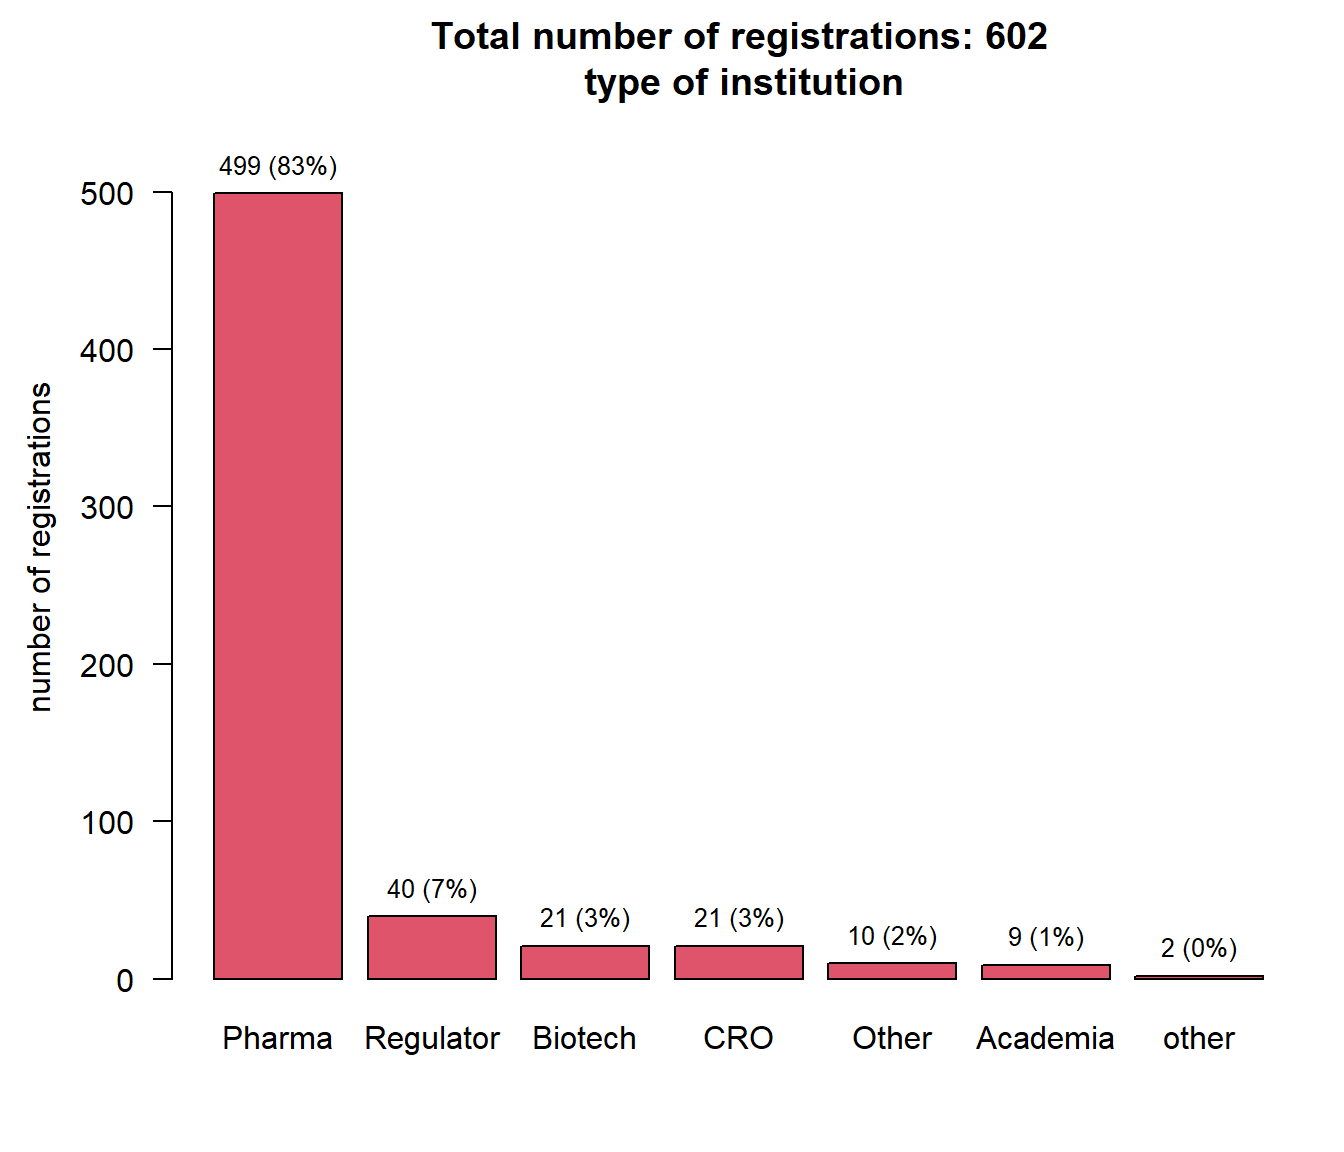
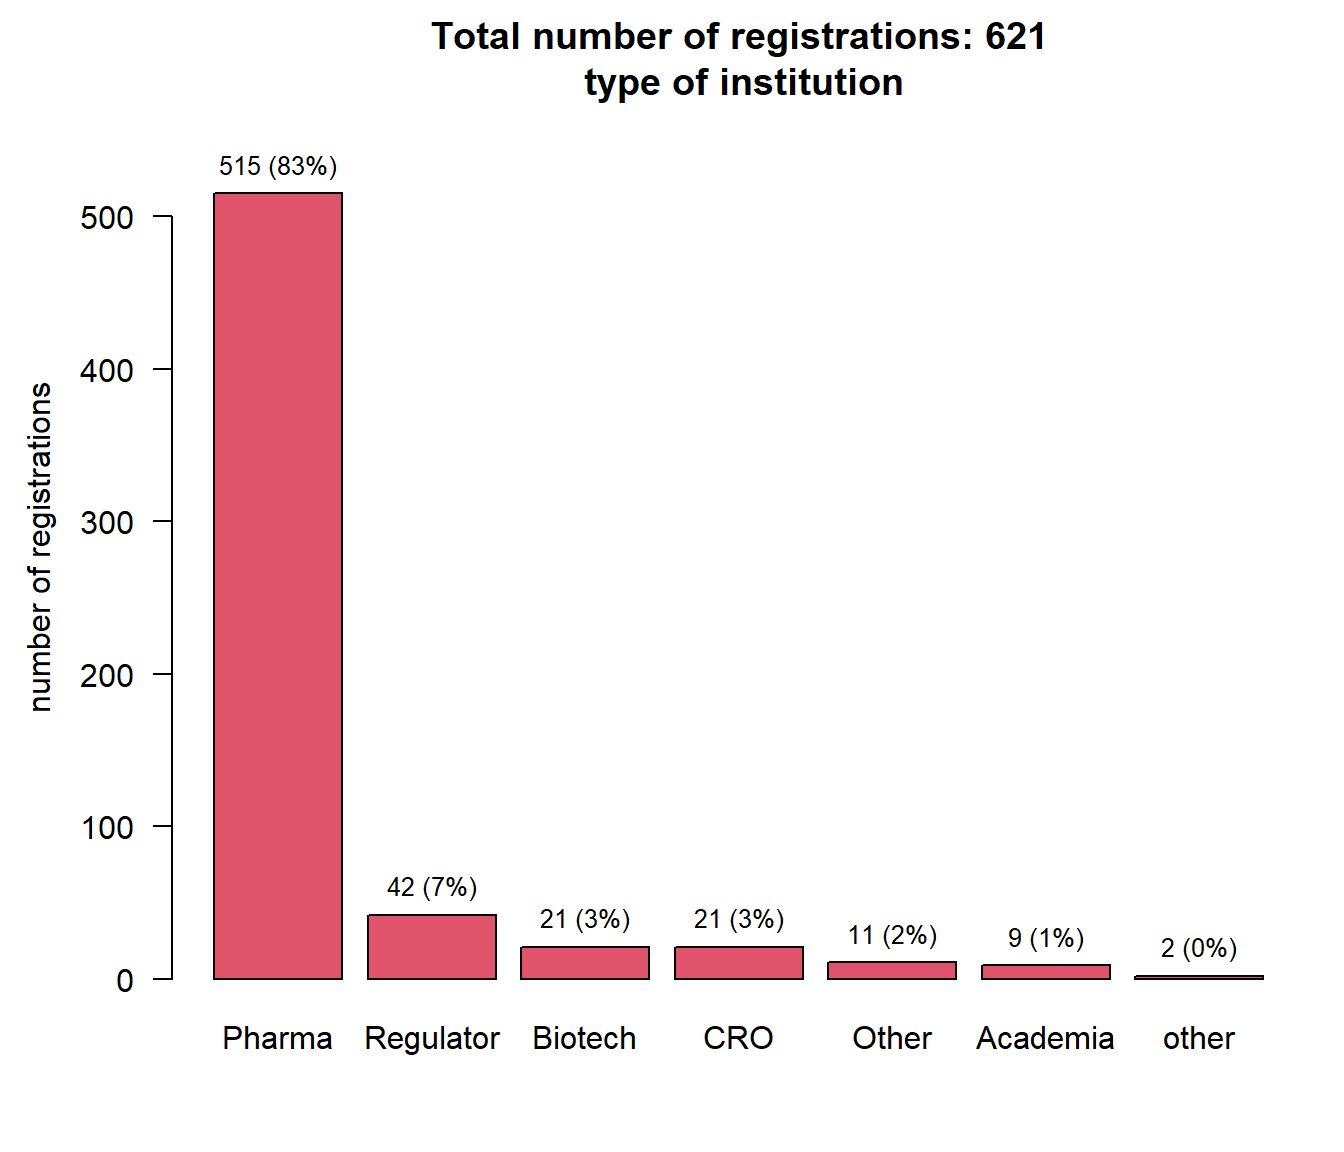
update

diff --git a/docs/registration_faq.html b/docs/registration_faq.html
@@ -6,7 +6,7 @@
 
 <meta name="viewport" content="width=device-width, initial-scale=1.0, user-scalable=yes">
 
-<meta name="dcterms.date" content="2024-08-21">
+<meta name="dcterms.date" content="2024-08-27">
 
 <title>EFSPI regulatory statistics workshop - Registration for EFSPI regulatory statistics workshop: Frequently asked questions</title>
 <style>
@@ -179,8 +179,8 @@ ul.task-list li input[type="checkbox"] {
   <li><a href="#which-companies-have-block-bookings-for-face-to-face-participation" id="toc-which-companies-have-block-bookings-for-face-to-face-participation" class="nav-link" data-scroll-target="#which-companies-have-block-bookings-for-face-to-face-participation">Which companies have block bookings for face-to-face participation?</a></li>
   <li><a href="#which-companies-have-block-bookings-for-virtual-participation" id="toc-which-companies-have-block-bookings-for-virtual-participation" class="nav-link" data-scroll-target="#which-companies-have-block-bookings-for-virtual-participation">Which companies have block bookings for virtual participation?</a></li>
   <li><a href="#my-company-roche-novartis-and-boehringer-ingelheim-has-a-block-booking-for-face-to-face-and-virtual-participation.-how-do-i-register" id="toc-my-company-roche-novartis-and-boehringer-ingelheim-has-a-block-booking-for-face-to-face-and-virtual-participation.-how-do-i-register" class="nav-link" data-scroll-target="#my-company-roche-novartis-and-boehringer-ingelheim-has-a-block-booking-for-face-to-face-and-virtual-participation.-how-do-i-register">My company (Roche, Novartis, and Boehringer Ingelheim) has a block booking for face-to-face AND virtual participation. How do I register?</a></li>
-  <li><a href="#my-company-novo-nordisk-bayer-has-a-block-booking-for-virtual-participation-only.-how-do-i-register" id="toc-my-company-novo-nordisk-bayer-has-a-block-booking-for-virtual-participation-only.-how-do-i-register" class="nav-link" data-scroll-target="#my-company-novo-nordisk-bayer-has-a-block-booking-for-virtual-participation-only.-how-do-i-register">My company (Novo Nordisk, Bayer) has a block booking for virtual participation only. How do I register?</a></li>
-  <li><a href="#my-company-novo-nordisk-bayer-has-a-block-booking-for-virtual-attendance-only.-i-still-want-to-attend-face-to-face.-how-much-do-i-need-to-pay" id="toc-my-company-novo-nordisk-bayer-has-a-block-booking-for-virtual-attendance-only.-i-still-want-to-attend-face-to-face.-how-much-do-i-need-to-pay" class="nav-link" data-scroll-target="#my-company-novo-nordisk-bayer-has-a-block-booking-for-virtual-attendance-only.-i-still-want-to-attend-face-to-face.-how-much-do-i-need-to-pay">My company (Novo Nordisk, Bayer) has a block booking for virtual attendance only. I still want to attend face-to-face. How much do I need to pay?</a></li>
+  <li><a href="#my-company-novo-nordisk-bayer-bms-has-a-block-booking-for-virtual-participation-only.-how-do-i-register" id="toc-my-company-novo-nordisk-bayer-bms-has-a-block-booking-for-virtual-participation-only.-how-do-i-register" class="nav-link" data-scroll-target="#my-company-novo-nordisk-bayer-bms-has-a-block-booking-for-virtual-participation-only.-how-do-i-register">My company (Novo Nordisk, Bayer, BMS) has a block booking for virtual participation only. How do I register?</a></li>
+  <li><a href="#my-company-novo-nordisk-bayer-bms-has-a-block-booking-for-virtual-attendance-only.-i-still-want-to-attend-face-to-face.-how-much-do-i-need-to-pay" id="toc-my-company-novo-nordisk-bayer-bms-has-a-block-booking-for-virtual-attendance-only.-i-still-want-to-attend-face-to-face.-how-much-do-i-need-to-pay" class="nav-link" data-scroll-target="#my-company-novo-nordisk-bayer-bms-has-a-block-booking-for-virtual-attendance-only.-i-still-want-to-attend-face-to-face.-how-much-do-i-need-to-pay">My company (Novo Nordisk, Bayer, BMS) has a block booking for virtual attendance only. I still want to attend face-to-face. How much do I need to pay?</a></li>
   <li><a href="#i-will-not-attend-the-full-workshop-andor-not-all-lunches.-do-i-get-a-deducation-for-the-face-to-face-registration-fee" id="toc-i-will-not-attend-the-full-workshop-andor-not-all-lunches.-do-i-get-a-deducation-for-the-face-to-face-registration-fee" class="nav-link" data-scroll-target="#i-will-not-attend-the-full-workshop-andor-not-all-lunches.-do-i-get-a-deducation-for-the-face-to-face-registration-fee">I will not attend the full workshop and/or not all lunches. Do I get a deducation for the face-to-face registration fee?</a></li>
   <li><a href="#i-have-registered-for-face-to-face-attendance-but-have-changed-my-mind-and-will-attend-only-virtually.-will-my-registration-fee-be-reimbursed" id="toc-i-have-registered-for-face-to-face-attendance-but-have-changed-my-mind-and-will-attend-only-virtually.-will-my-registration-fee-be-reimbursed" class="nav-link" data-scroll-target="#i-have-registered-for-face-to-face-attendance-but-have-changed-my-mind-and-will-attend-only-virtually.-will-my-registration-fee-be-reimbursed">I have registered for face-to-face attendance but have changed my mind and will attend only virtually. Will my registration fee be reimbursed?</a></li>
   <li><a href="#for-whom-is-the-registration-fee-waived" id="toc-for-whom-is-the-registration-fee-waived" class="nav-link" data-scroll-target="#for-whom-is-the-registration-fee-waived">For whom is the registration fee waived?</a></li>
@@ -207,7 +207,7 @@ ul.task-list li input[type="checkbox"] {
     <div>
     <div class="quarto-title-meta-heading">Published</div>
     <div class="quarto-title-meta-contents">
-      <p class="date">August 21, 2024</p>
+      <p class="date">August 27, 2024</p>
     </div>
   </div>
   
@@ -280,19 +280,19 @@ ul.task-list li input[type="checkbox"] {
 </section>
 <section id="which-companies-have-block-bookings-for-virtual-participation" class="level1">
 <h1>Which companies have block bookings for virtual participation?</h1>
-<p>For 2024, Novo Nordisk and Bayer have a a block booking for virtual participation, i.e.&nbsp;all colleagues working at Novo Nordisk or Bayer do not need to pay a registration fee for virtual participation. Face-to-face registration fee remains the same.</p>
+<p>For 2024, Novo Nordisk, Bayer, and BMS have a a block booking for virtual participation, i.e.&nbsp;all colleagues working at Novo Nordisk, Bayer, or BMS do not need to pay a registration fee for virtual participation. Face-to-face registration fee remains the same.</p>
 </section>
 <section id="my-company-roche-novartis-and-boehringer-ingelheim-has-a-block-booking-for-face-to-face-and-virtual-participation.-how-do-i-register" class="level1">
 <h1>My company (Roche, Novartis, and Boehringer Ingelheim) has a block booking for face-to-face AND virtual participation. How do I register?</h1>
 <p>These companies have a block booking for face-to-face and virtual attendance. You simply register via <a href="https://forms.gle/JWc1ZyUKxq5Lhhwf6">this form</a> and indicate face-to-face or virtual attendance. You do not need to pay a registration fee, this is covered by your company via the block booking.</p>
 <p>To get access to lunches and the wine tasting event, please tick the meals/event you plan to attend. We ask you to be as accurate as possible in indicating your presence - this is for organizational purposes.</p>
 </section>
-<section id="my-company-novo-nordisk-bayer-has-a-block-booking-for-virtual-participation-only.-how-do-i-register" class="level1">
-<h1>My company (Novo Nordisk, Bayer) has a block booking for virtual participation only. How do I register?</h1>
+<section id="my-company-novo-nordisk-bayer-bms-has-a-block-booking-for-virtual-participation-only.-how-do-i-register" class="level1">
+<h1>My company (Novo Nordisk, Bayer, BMS) has a block booking for virtual participation only. How do I register?</h1>
 <p>You simply register via <a href="https://forms.gle/JWc1ZyUKxq5Lhhwf6">this form</a> and indicate virtual attendance. You do not need to pay a registration fee, this is covered by your company via a block booking.</p>
 </section>
-<section id="my-company-novo-nordisk-bayer-has-a-block-booking-for-virtual-attendance-only.-i-still-want-to-attend-face-to-face.-how-much-do-i-need-to-pay" class="level1">
-<h1>My company (Novo Nordisk, Bayer) has a block booking for virtual attendance only. I still want to attend face-to-face. How much do I need to pay?</h1>
+<section id="my-company-novo-nordisk-bayer-bms-has-a-block-booking-for-virtual-attendance-only.-i-still-want-to-attend-face-to-face.-how-much-do-i-need-to-pay" class="level1">
+<h1>My company (Novo Nordisk, Bayer, BMS) has a block booking for virtual attendance only. I still want to attend face-to-face. How much do I need to pay?</h1>
 <p>The full registration fee, 280 Euro.</p>
 </section>
 <section id="i-will-not-attend-the-full-workshop-andor-not-all-lunches.-do-i-get-a-deducation-for-the-face-to-face-registration-fee" class="level1">

diff --git a/docs/data/2024/analysis2024.html b/docs/data/2024/analysis2024.html
@@ -7,7 +7,7 @@
 <meta name="viewport" content="width=device-width, initial-scale=1.0, user-scalable=yes">
 
 <meta name="author" content="Kaspar Rufibach">
-<meta name="dcterms.date" content="2024-08-23">
+<meta name="dcterms.date" content="2024-08-27">
 
 <title>EFSPI regulatory statistics workshop - EFSPI regulatory statistics workshop 2024: analysis of registrations</title>
 <style>
@@ -205,7 +205,7 @@ ul.task-list li input[type="checkbox"] {
     <div>
     <div class="quarto-title-meta-heading">Published</div>
     <div class="quarto-title-meta-contents">
-      <p class="date">August 23, 2024</p>
+      <p class="date">August 27, 2024</p>
     </div>
   </div>
   
@@ -219,7 +219,7 @@ ul.task-list li input[type="checkbox"] {
 
 <section id="data-status" class="level1">
 <h1>Data status</h1>
-<p>Data as of 2024-08-23 at 21:20:08.</p>
+<p>Data as of 2024-08-27 at 14:47:15.</p>
 </section>
 <section id="registrations-by-type-of-institution" class="level1">
 <h1>Registrations by type of institution</h1>
@@ -343,9 +343,9 @@ ul.task-list li input[type="checkbox"] {
 <tr class="header">
 <th style="text-align: left;"></th>
 <th style="text-align: center;">Boehringer Ingelheim (N=14)</th>
-<th style="text-align: center;">Novartis (N=213)</th>
+<th style="text-align: center;">Novartis (N=215)</th>
 <th style="text-align: center;">Roche (N=100)</th>
-<th style="text-align: center;">Total (N=327)</th>
+<th style="text-align: center;">Total (N=329)</th>
 </tr>
 </thead>
 <tbody>
@@ -359,16 +359,16 @@ ul.task-list li input[type="checkbox"] {
 <tr class="even">
 <td style="text-align: left;">&nbsp;&nbsp;&nbsp;Face-to-face (280 Euro)</td>
 <td style="text-align: center;">3 (21.4%)</td>
-<td style="text-align: center;">104 (48.8%)</td>
+<td style="text-align: center;">105 (48.8%)</td>
 <td style="text-align: center;">68 (68.0%)</td>
-<td style="text-align: center;">175 (53.5%)</td>
+<td style="text-align: center;">176 (53.5%)</td>
 </tr>
 <tr class="odd">
 <td style="text-align: left;">&nbsp;&nbsp;&nbsp;Virtual (70 Euro)</td>
 <td style="text-align: center;">11 (78.6%)</td>
-<td style="text-align: center;">109 (51.2%)</td>
+<td style="text-align: center;">110 (51.2%)</td>
 <td style="text-align: center;">32 (32.0%)</td>
-<td style="text-align: center;">152 (46.5%)</td>
+<td style="text-align: center;">153 (46.5%)</td>
 </tr>
 </tbody>
 </table>
@@ -377,17 +377,19 @@ ul.task-list li input[type="checkbox"] {
 <h1>Registrations by mode of attendance and virtual block booking status</h1>
 <table class="caption-top table">
 <colgroup>
-<col style="width: 45%">
-<col style="width: 15%">
-<col style="width: 22%">
-<col style="width: 16%">
+<col style="width: 40%">
+<col style="width: 13%">
+<col style="width: 11%">
+<col style="width: 20%">
+<col style="width: 14%">
 </colgroup>
 <thead>
 <tr class="header">
 <th style="text-align: left;"></th>
-<th style="text-align: center;">Bayer (N=44)</th>
-<th style="text-align: center;">Novo Nordisk (N=68)</th>
-<th style="text-align: center;">Total (N=112)</th>
+<th style="text-align: center;">Bayer (N=53)</th>
+<th style="text-align: center;">BMS (N=2)</th>
+<th style="text-align: center;">Novo Nordisk (N=69)</th>
+<th style="text-align: center;">Total (N=124)</th>
 </tr>
 </thead>
 <tbody>
@@ -396,18 +398,21 @@ ul.task-list li input[type="checkbox"] {
 <td style="text-align: center;"></td>
 <td style="text-align: center;"></td>
 <td style="text-align: center;"></td>
+<td style="text-align: center;"></td>
 </tr>
 <tr class="even">
 <td style="text-align: left;">&nbsp;&nbsp;&nbsp;Face-to-face (280 Euro)</td>
-<td style="text-align: center;">2 (4.5%)</td>
-<td style="text-align: center;">6 (8.8%)</td>
-<td style="text-align: center;">8 (7.1%)</td>
+<td style="text-align: center;">2 (3.8%)</td>
+<td style="text-align: center;">2 (100.0%)</td>
+<td style="text-align: center;">7 (10.1%)</td>
+<td style="text-align: center;">11 (8.9%)</td>
 </tr>
 <tr class="odd">
 <td style="text-align: left;">&nbsp;&nbsp;&nbsp;Virtual (70 Euro)</td>
-<td style="text-align: center;">42 (95.5%)</td>
-<td style="text-align: center;">62 (91.2%)</td>
-<td style="text-align: center;">104 (92.9%)</td>
+<td style="text-align: center;">51 (96.2%)</td>
+<td style="text-align: center;">0 (0.0%)</td>
+<td style="text-align: center;">62 (89.9%)</td>
+<td style="text-align: center;">113 (91.1%)</td>
 </tr>
 </tbody>
 </table>

diff --git a/docs/dialin.html b/docs/dialin.html
@@ -228,7 +228,7 @@ ul.task-list li input[type="checkbox"] {
 <li><font color="red">Please exclusively use the link in the above email and do not join as an attendee - otherwise you will not be in the practice session prior to the TC</font>.</li>
 <li>We would appreciate if you could dial in about 20min early into the practice session, for us to check that everything works. Attendees can dial in but will not be in the webinar before we let them in. You will not need to log out from this session and can just stay in.</li>
 <li>Only panelists will have the option to turn on their camera and microphon. Attendees can only speak when we unmute them (which we do not plan for, we will invite them to ask questions through the chat).</li>
-<li>Status of registrations: Find this <a href="https://efspieurope.github.io/workshop/data/2023/analysis2023.html">here</a>. We have 602 registrations from 27 countries as of now, with 300 face-to-face. 42 colleagues from regulatory agencies registered so far.</li>
+<li>Status of registrations: Find this <a href="https://efspieurope.github.io/workshop/data/2023/analysis2023.html">here</a>. We have 621 registrations from 28 countries as of now, with 305 face-to-face. 44 colleagues from regulatory agencies registered so far.</li>
 <li>The current version of the program is <a href="data/2023/8th EFSPI RegStat Workshop program.pdf">here</a>.</li>
 </ul>
 </section>

diff --git a/docs/dialin_participants.html b/docs/dialin_participants.html
@@ -213,7 +213,7 @@ ul.task-list li input[type="checkbox"] {
 <li><font color="red">Day 1</font>: Use this <a href="https://roche.zoom.us/j/92502410017">zoom link</a> to dial in, with passcode 130923.</li>
 <li><font color="red">Day 2</font>: Use this <a href="https://roche.zoom.us/j/94065878061">zoom link</a> to dial in, with passcode 140923</li>
 <li>Attendees are invited to ask questions through zoom’s Q&amp;A functionality.</li>
-<li>Status of registrations: Find this <a href="https://efspieurope.github.io/workshop/data/2023/analysis2023.html">here</a>. We have 602 registrations from 27 countries as of now, with 300 face-to-face. 42 colleagues from regulatory agencies registered so far.</li>
+<li>Status of registrations: Find this <a href="https://efspieurope.github.io/workshop/data/2023/analysis2023.html">here</a>. We have 621 registrations from 28 countries as of now, with 305 face-to-face. 44 colleagues from regulatory agencies registered so far.</li>
 </ul>
 </section>
 <section id="face-to-face-attendance" class="level1">

diff --git a/docs/feedback.html b/docs/feedback.html
@@ -7,7 +7,7 @@
 <meta name="viewport" content="width=device-width, initial-scale=1.0, user-scalable=yes">
 
 <meta name="author" content="Kaspar Rufibach">
-<meta name="dcterms.date" content="2024-08-23">
+<meta name="dcterms.date" content="2024-08-27">
 
 <title>EFSPI regulatory statistics workshop - EFSPI regulatory statistics workshop: feedback from previous years</title>
 <style>
@@ -194,7 +194,7 @@ ul.task-list li input[type="checkbox"] {
     <div>
     <div class="quarto-title-meta-heading">Published</div>
     <div class="quarto-title-meta-contents">
-      <p class="date">August 23, 2024</p>
+      <p class="date">August 27, 2024</p>
     </div>
   </div>
   

diff --git a/docs/past_scicom.html b/docs/past_scicom.html
@@ -6,7 +6,7 @@
 
 <meta name="viewport" content="width=device-width, initial-scale=1.0, user-scalable=yes">
 
-<meta name="dcterms.date" content="2024-08-23">
+<meta name="dcterms.date" content="2024-08-27">
 
 <title>EFSPI regulatory statistics workshop - Past workshops: analysis of registrations and feedback (for restricted audience only)</title>
 <style>
@@ -186,7 +186,7 @@ ul.task-list li input[type="checkbox"] {
     <div>
     <div class="quarto-title-meta-heading">Published</div>
     <div class="quarto-title-meta-contents">
-      <p class="date">August 23, 2024</p>
+      <p class="date">August 27, 2024</p>
     </div>
   </div>
   
